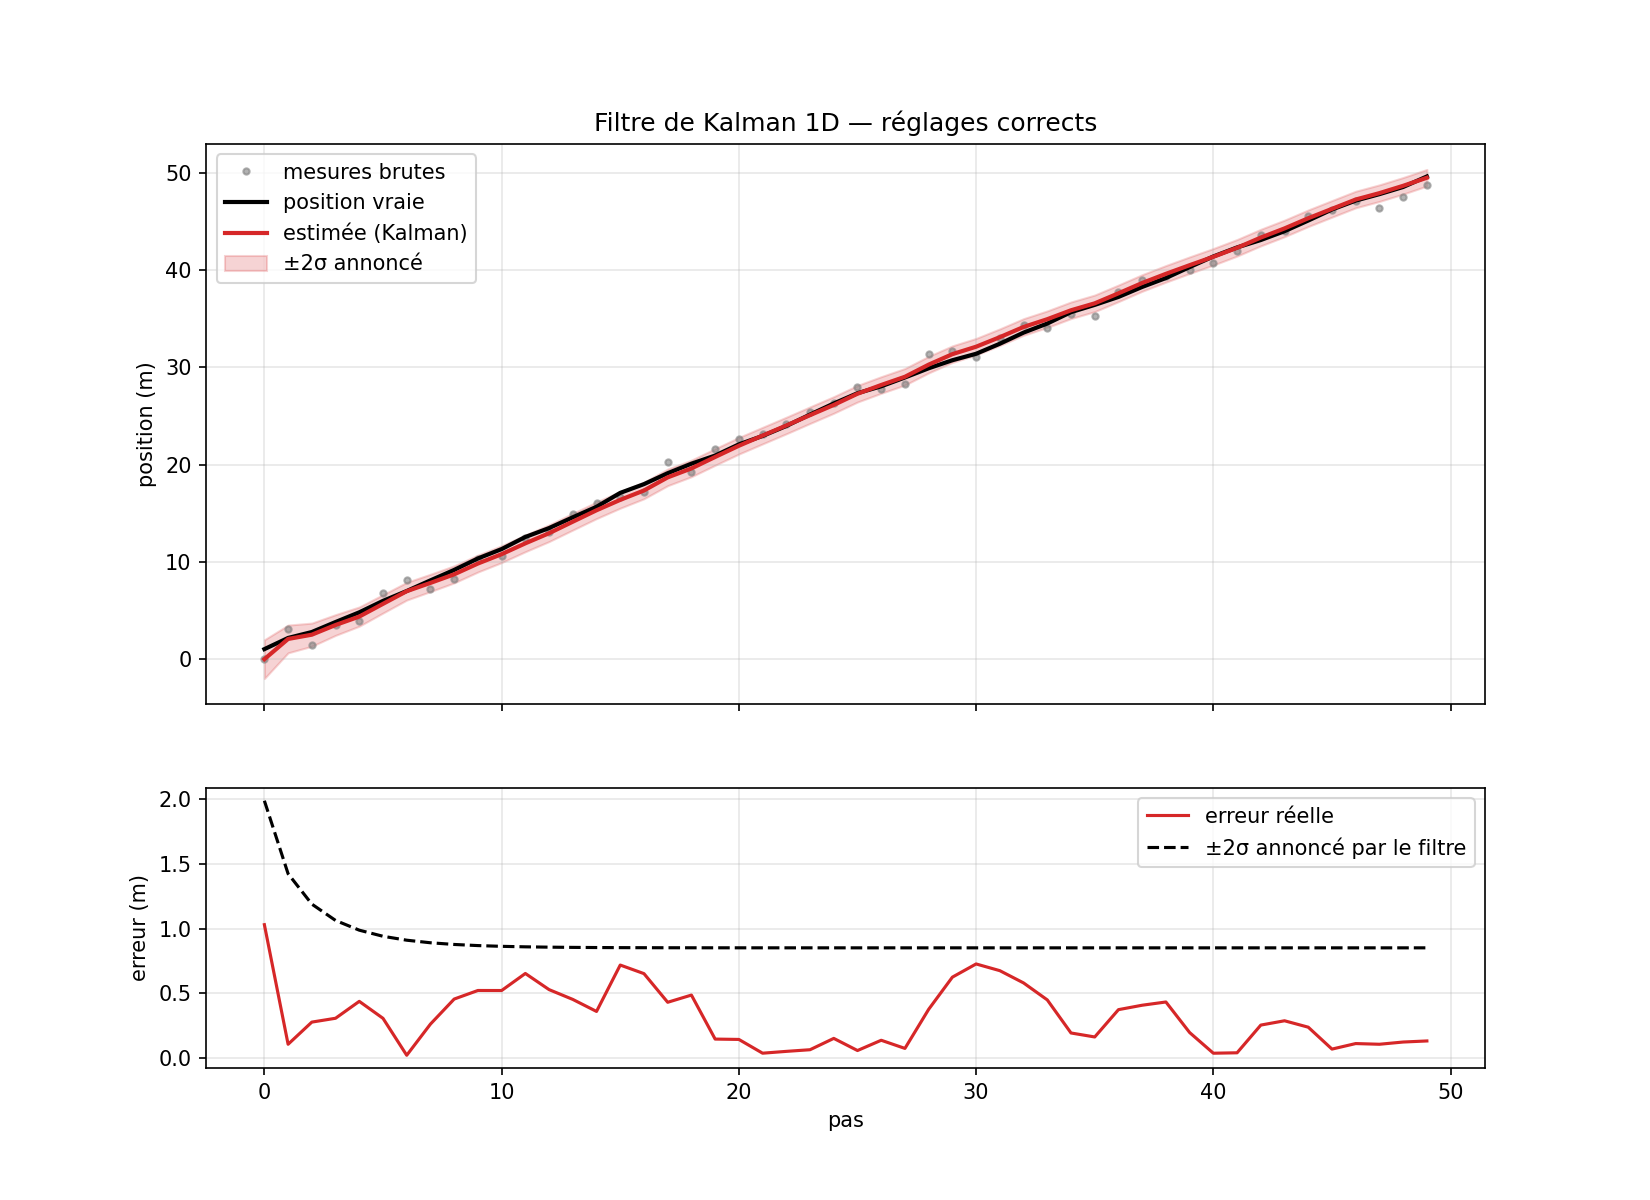
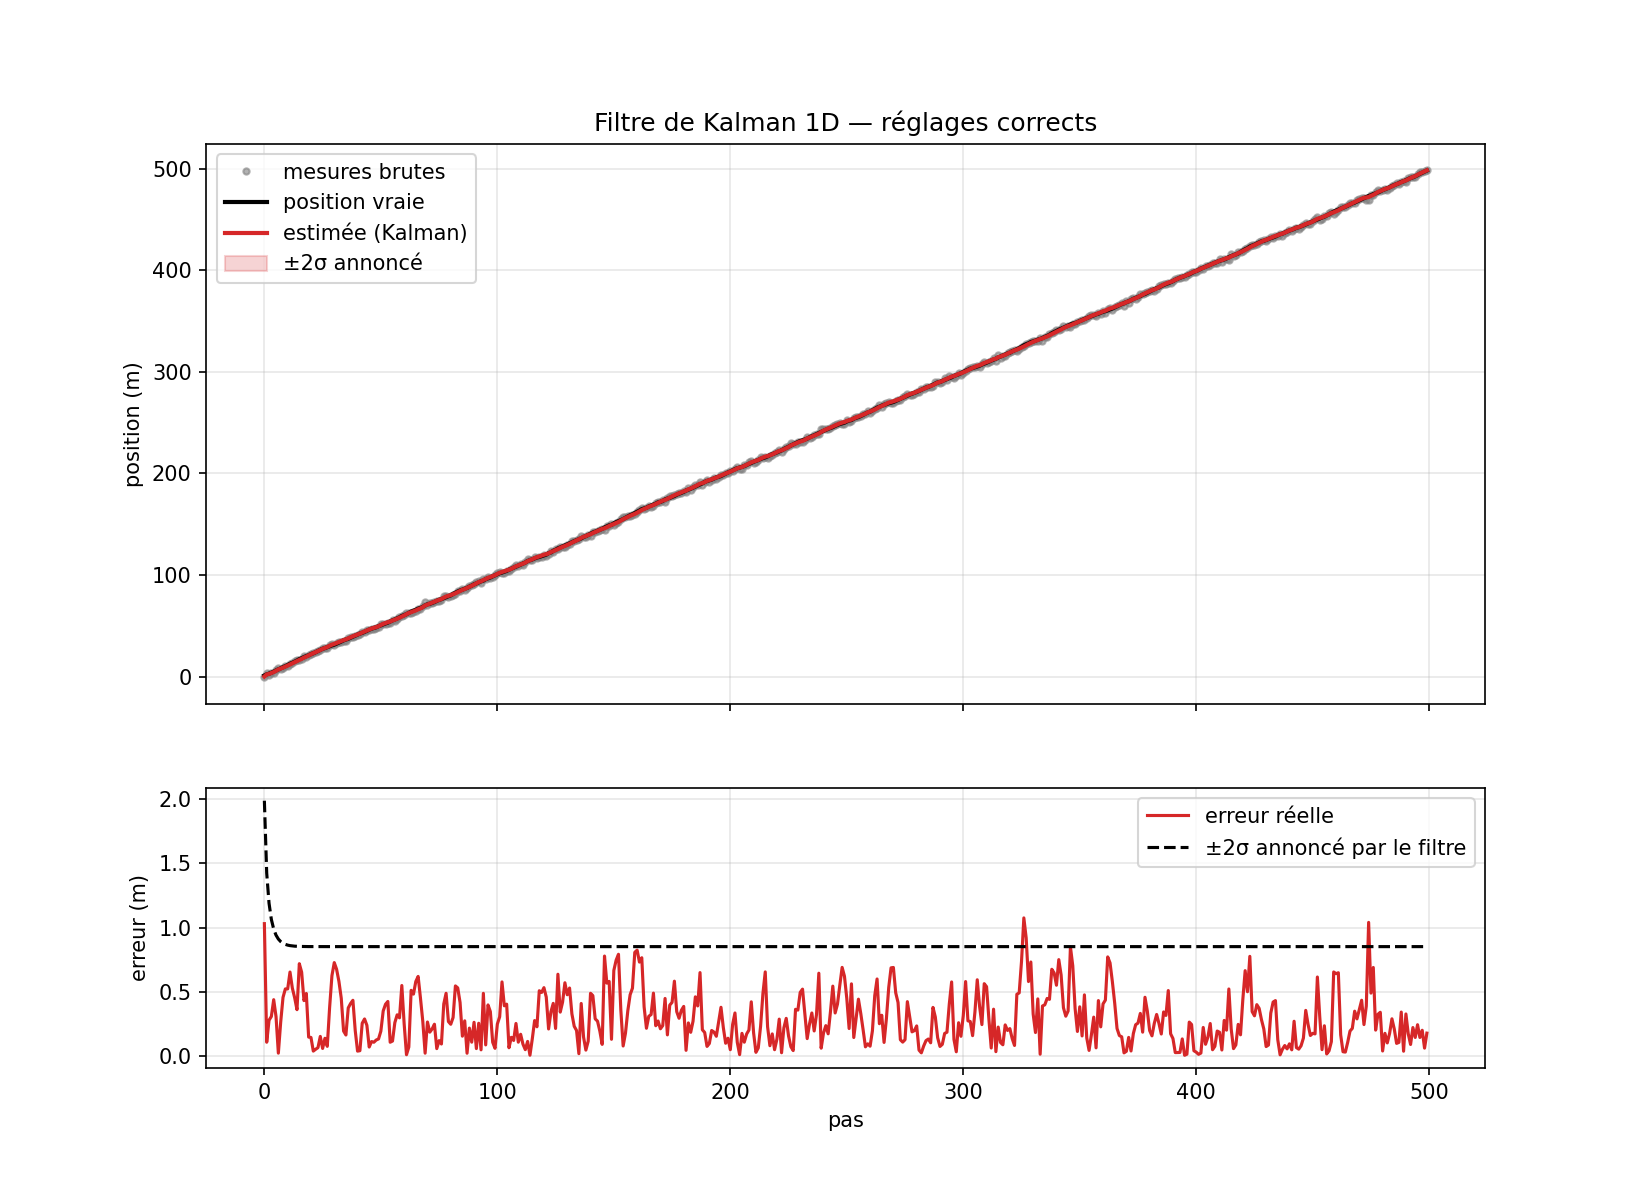
reglage pas

diff --git a/demo.py b/demo.py
@@ -3,7 +3,7 @@ import matplotlib.pyplot as plt
 from kalman import predire, corriger
 
 DEPLACEMENT = 1.0              # ce qu'on commande à chaque pas (m)
-N_PAS = 50
+N_PAS = 500
 
 # le bruit RÉEL du monde — sert uniquement à tirer les nombres aléatoires
 VARIANCE_MOUVEMENT_REELLE = 0.04    # les roues dérapent de ±0.2 m par pas
